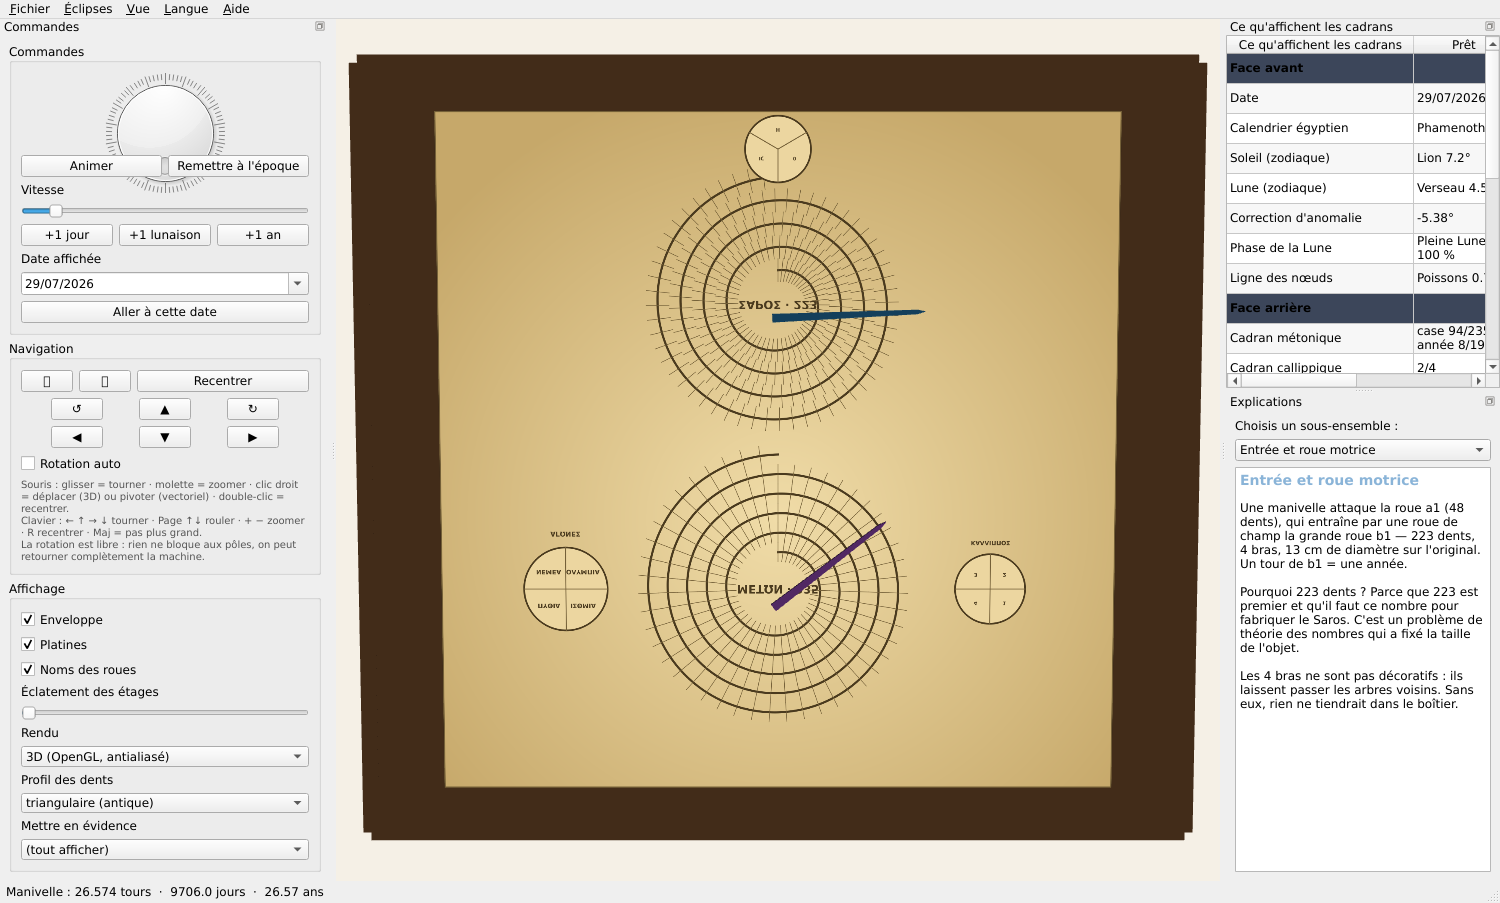
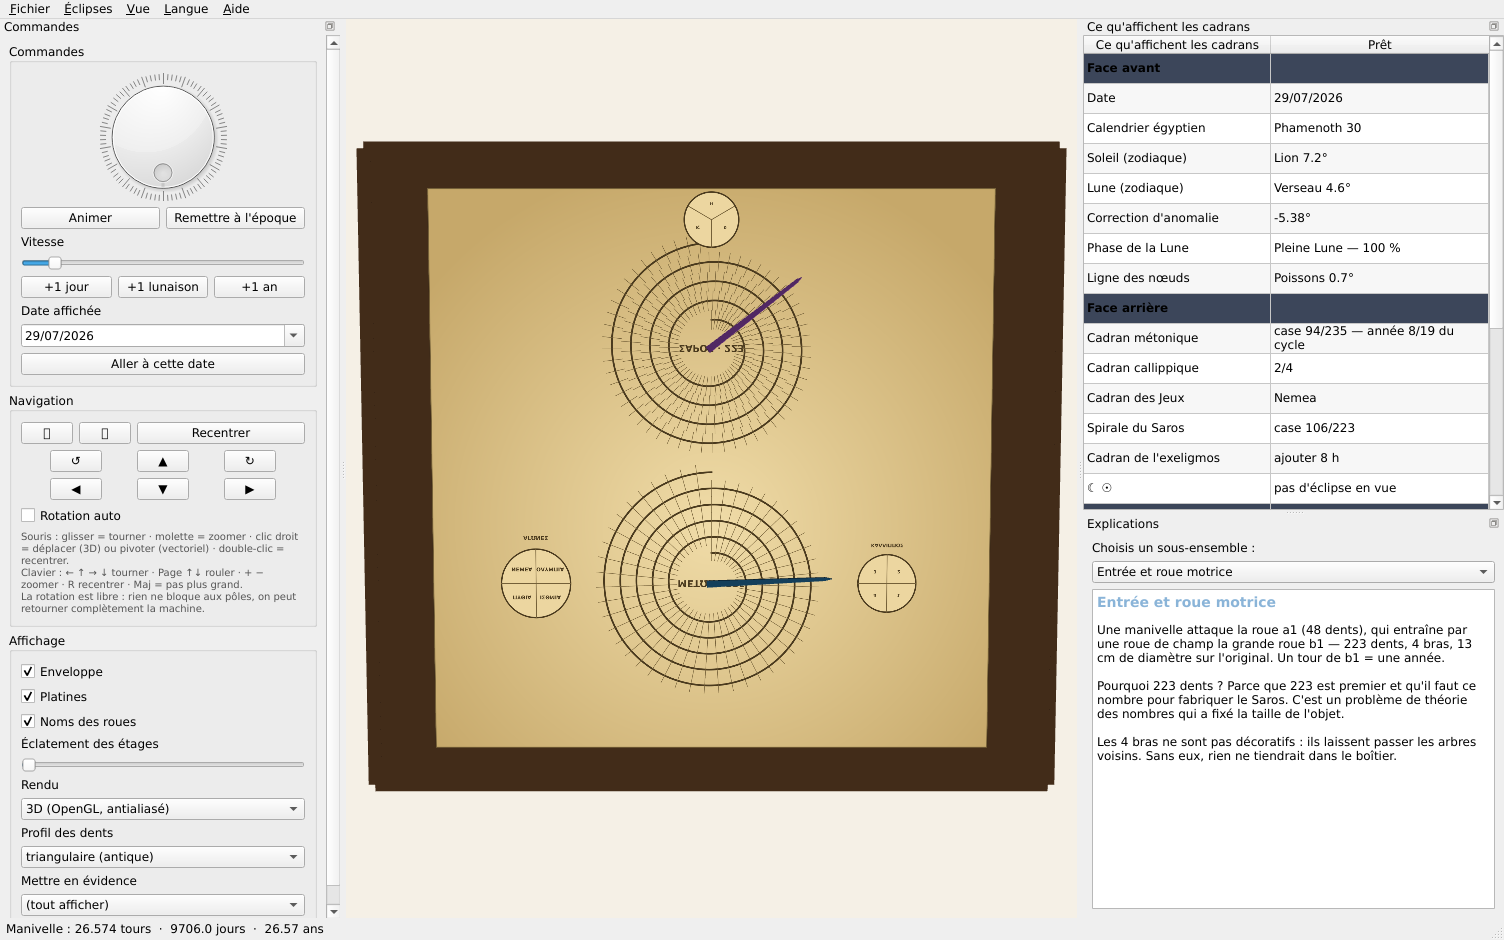
Cadrans places par le calcul, et fenetre correctement dimensionnee
Geometrie des cadrans (docs/anticythere_cadrans.sage, docs/anticythere_texture.sage) :
- la chaine texture -> scene refaite en calcul formel. Le signe du placement
  etait inverse : chaque aiguille du dos tournait autour du centre de
  l'AUTRE spirale, a 5 mm pres, d'ou l'impression de decentrage.
  Formule retenue : Y = cy + span*(fy - 1/2).
- le cadran avant est centre sur l'arbre b, pas sur le boitier : son rayon
  maximal vaut donc 126,5 mm. Span ramene de 250 a 244 mm, il debordait.
- longueur des aiguilles calculee pour qu'elles pointent DANS l'anneau du
  zodiaque (97,6 mm) et au milieu de celui-ci pour la Lune (88,8 mm) ;
  celles du dos suivent le rayon de leur spirale.
- controle : les cinq elements du dos tiennent dans le boitier, et les deux
  spirales ne se recouvrent pas (8,75 mm de marge).

Presentation :
- la fenetre s'adapte a l'ecran reel et se centre ; largeurs de depart
  imposees aux panneaux (resizeDocks) au lieu d'etre subies.
- panneau de commandes dans une zone defilante : plus rien n'est tronque.
- le bouton de manivelle reste carre et ne deborde plus sur ses voisins.

Claude-Session: https://claude.ai/code/session_01XczMTafjsvFZKDmDcyRtG9

diff --git a/anticythere/mainwindow.py b/anticythere/mainwindow.py
@@ -61,14 +61,57 @@ class MainWindow(QtWidgets.QMainWindow):
 
         self.status = self.statusBar()
         self.retranslate()
-        self.resize(1500, 900)
+        self._setup_geometry()
         self.refresh()
 
+    # ------------------------------------------------------- mise en place
+    def _setup_geometry(self):
+        """Dimensionne fenêtre et panneaux pour l'écran réel.
+
+        Sans cela, sur un écran plus petit que la taille demandée, Qt comprime
+        les panneaux : les commandes se chevauchent et le contenu est tronqué
+        dès l'ouverture.
+        """
+        screen = QtWidgets.QApplication.primaryScreen()
+        avail = (screen.availableGeometry() if screen
+                 else QtCore.QRect(0, 0, 1280, 800))
+        w = min(1560, int(avail.width() * 0.94))
+        h = min(940, int(avail.height() * 0.94))
+        self.resize(w, h)
+        self.move(avail.left() + (avail.width() - w) // 2,
+                  avail.top() + max(0, (avail.height() - h) // 2))
+
+        # largeurs de départ : commandes à gauche, lectures à droite, le
+        # reste pour la machine — qui doit garder la part du lion
+        left = 340
+        right = max(360, min(430, int(w * 0.28)))
+        self.resizeDocks([self.dock_controls], [left],
+                         QtCore.Qt.Orientation.Horizontal)
+        self.resizeDocks([self.dock_readings, self.dock_expl], [right, right],
+                         QtCore.Qt.Orientation.Horizontal)
+        # les deux panneaux de droite se partagent la hauteur : le tableau des
+        # cadrans un peu plus que les explications
+        self.resizeDocks([self.dock_readings, self.dock_expl],
+                         [int(h * 0.55), int(h * 0.45)],
+                         QtCore.Qt.Orientation.Vertical)
+
     # ------------------------------------------------------------- panneaux
-    def _dock(self, area, widget, objname):
+    def _dock(self, area, widget, objname, scroll: bool = False):
+        """Ajoute un panneau. `scroll` l'enveloppe dans une zone défilante :
+        sans cela, un panneau plus haut que la fenêtre voit son contenu
+        tronqué ou écrasé au démarrage."""
         d = QtWidgets.QDockWidget(self)
         d.setObjectName(objname)
-        d.setWidget(widget)
+        if scroll:
+            area_w = QtWidgets.QScrollArea()
+            area_w.setWidgetResizable(True)
+            area_w.setFrameShape(QtWidgets.QFrame.Shape.NoFrame)
+            area_w.setHorizontalScrollBarPolicy(
+                QtCore.Qt.ScrollBarPolicy.ScrollBarAlwaysOff)
+            area_w.setWidget(widget)
+            d.setWidget(area_w)
+        else:
+            d.setWidget(widget)
         d.setFeatures(QtWidgets.QDockWidget.DockWidgetFeature.DockWidgetMovable
                       | QtWidgets.QDockWidget.DockWidgetFeature.DockWidgetFloatable)
         self.addDockWidget(area, d)
@@ -84,7 +127,11 @@ class MainWindow(QtWidgets.QMainWindow):
         self.dial.setRange(0, 359)
         self.dial.setWrapping(True)
         self.dial.setNotchesVisible(True)
-        self.dial.setFixedHeight(120)
+        # un QDial doit rester carré, sinon il déborde sur ses voisins
+        self.dial.setMinimumSize(128, 128)
+        self.dial.setMaximumHeight(150)
+        self.dial.setSizePolicy(QtWidgets.QSizePolicy.Policy.Expanding,
+                                QtWidgets.QSizePolicy.Policy.Fixed)
         self.dial.valueChanged.connect(self._crank_moved)
         gv.addWidget(self.dial)
 
@@ -220,9 +267,13 @@ class MainWindow(QtWidgets.QMainWindow):
         v.addWidget(self.gb_view)
         v.addStretch(1)
 
-        w.setMaximumWidth(330)
+        # largeur imposée au CONTENU, pas au panneau : le dock garde alors
+        # une largeur cohérente et rien n'est comprimé au démarrage
+        w.setMinimumWidth(300)
         self.dock_controls = self._dock(
-            QtCore.Qt.DockWidgetArea.LeftDockWidgetArea, w, "controls")
+            QtCore.Qt.DockWidgetArea.LeftDockWidgetArea, w, "controls",
+            scroll=True)
+        self.dock_controls.setMinimumWidth(320)
 
     def _build_readings(self):
         self.table = QtWidgets.QTableWidget(0, 2)
@@ -231,6 +282,9 @@ class MainWindow(QtWidgets.QMainWindow):
         self.table.setEditTriggers(
             QtWidgets.QAbstractItemView.EditTrigger.NoEditTriggers)
         self.table.setAlternatingRowColors(True)
+        self.table.setMinimumWidth(340)
+        self.table.horizontalHeader().setSectionResizeMode(
+            0, QtWidgets.QHeaderView.ResizeMode.ResizeToContents)
         self.dock_readings = self._dock(
             QtCore.Qt.DockWidgetArea.RightDockWidgetArea, self.table, "readings")
 
@@ -243,7 +297,9 @@ class MainWindow(QtWidgets.QMainWindow):
         self.cmb_expl.currentIndexChanged.connect(self._show_explanation)
         v.addWidget(self.cmb_expl)
         self.txt_expl = QtWidgets.QTextBrowser()
+        self.txt_expl.setMinimumHeight(180)
         v.addWidget(self.txt_expl)
+        w.setMinimumWidth(340)
         self.dock_expl = self._dock(
             QtCore.Qt.DockWidgetArea.RightDockWidgetArea, w, "explanations")
 

diff --git a/anticythere/layout.py b/anticythere/layout.py
@@ -165,7 +165,20 @@ CASE_DEPTH = (N_LEVELS + 1) * LEVEL_PITCH
 #: centre géométrique, pour recentrer la caméra
 CENTER = (CASE_CX, CASE_CY, CASE_DEPTH / 2.0)
 
-# --- cadran arrière : où sont réellement les centres des deux spirales -----
+# --- cadrans : géométrie calculée, pas ajustée à l'œil ---------------------
+# Tout ce bloc sort de `anticythere_cadrans.sage`, qui vérifie que chaque
+# anneau, chaque spirale et chaque aiguille tombe au bon endroit et que rien
+# ne déborde du boîtier.
+
+#: le cadran avant est centré sur l'arbre b, en (0, 0), alors que le boîtier
+#: est centré ailleurs : son rayon est donc limité par le bord le plus proche
+FRONT_DIAL_SPAN = 244.0
+#: rayons des anneaux, en fraction du rayon du cadran (cf. dialface)
+_ZOD_IN_F, _ZOD_OUT_F = 0.63, 0.825
+#: l'aiguille du Soleil doit pointer DANS l'anneau du zodiaque, pas au-delà
+SUN_HAND = FRONT_DIAL_SPAN / 2.0 * _ZOD_OUT_F - 3.0          # 97,7 mm
+MOON_HAND = FRONT_DIAL_SPAN / 2.0 * (_ZOD_IN_F + _ZOD_OUT_F) / 2.0   # 88,8 mm
+
 #: côté de la texture du dos, en mm
 BACK_DIAL_SPAN = 250.0
 #: positions dans la texture, en fraction de son côté (cf. dialface)
@@ -173,8 +186,13 @@ _METONIC_FY, _SAROS_FY = 0.30, 0.72
 #: rayons extérieurs des deux spirales, en fraction du côté
 _METONIC_FR, _SAROS_FR = 0.20, 0.185
 
-#: y de l'image va vers le bas, y de la scène vers le haut : d'où le signe.
-METONIC_CENTER = (CASE_CX, CASE_CY + BACK_DIAL_SPAN * (0.5 - _METONIC_FY))
-SAROS_CENTER = (CASE_CX, CASE_CY + BACK_DIAL_SPAN * (0.5 - _SAROS_FY))
+# Position dans la scène d'un point de la texture, à la fraction (fx, fy) :
+#     Y = cy + span * (fy - 1/2)
+# Chaîne vérifiée en calcul formel (anticythere_texture.sage) : transposition
+# du tableau, miroir de la face arrière, puis la matrice de l'item. Le signe
+# ci-dessous avait été posé à l'envers, ce qui plaçait chaque aiguille au
+# centre de l'AUTRE spirale, à 5 mm près.
+METONIC_CENTER = (CASE_CX, CASE_CY + BACK_DIAL_SPAN * (_METONIC_FY - 0.5))
+SAROS_CENTER = (CASE_CX, CASE_CY + BACK_DIAL_SPAN * (_SAROS_FY - 0.5))
 METONIC_RADIUS = BACK_DIAL_SPAN * _METONIC_FR
 SAROS_RADIUS = BACK_DIAL_SPAN * _SAROS_FR

diff --git a/anticythere/view3d.py b/anticythere/view3d.py
@@ -125,9 +125,9 @@ if HAS_GL:
             # aiguilles : maillage créé À PLAT (z0 = 0), c'est set_pointers qui
             # les place — sinon le décalage en z serait appliqué deux fois.
             self._pointers["sun"] = self._add(
-                geo.pointer_mesh(104.0, 0.0), (0.85, 0.65, 0.15, 1.0))
+                geo.pointer_mesh(lay.SUN_HAND, 0.0), (0.85, 0.65, 0.15, 1.0))
             self._pointers["moon"] = self._add(
-                geo.pointer_mesh(86.0, 0.0), (0.80, 0.82, 0.86, 1.0))
+                geo.pointer_mesh(lay.MOON_HAND, 0.0), (0.80, 0.82, 0.86, 1.0))
             # aiguilles du dos : leur longueur suit le rayon de leur spirale
             self._pointers["metonic"] = self._add(
                 geo.pointer_mesh(lay.METONIC_RADIUS * 1.02, 0.0),
@@ -227,9 +227,10 @@ if HAS_GL:
             # cadrans gravés : de vraies textures, avec les inscriptions
             # grecques. Un disque de bronze et quelques traits en volume ne
             # rendraient jamais ΚΡΙΟΣ ni ΜΕΤΩΝ lisibles.
-            self._add_dial_texture("front", 250.0, z_front + 0.6, 0.0, 0.0)
-            self._add_dial_texture("back", 250.0, z_back - 0.6, cx, cy,
-                                   flip=True)
+            self._add_dial_texture("front", lay.FRONT_DIAL_SPAN,
+                                   z_front + 0.6, 0.0, 0.0)
+            self._add_dial_texture("back", lay.BACK_DIAL_SPAN,
+                                   z_back - 0.6, cx, cy, flip=True)
             # manivelle sur le flanc, dans l'axe de la roue a1
             ax, ay = lay.ARBORS["a"]
             self._case.append(self._add(
